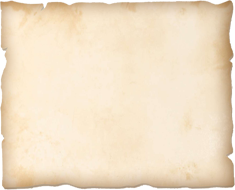
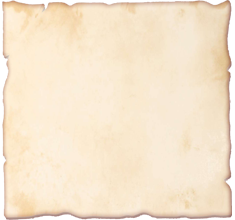
Update design for recipes list

Changed region(s): [[0.0, 0.0, 1.0, 1.0]]

diff --git a/src/app/components/recipes/recipe-list/recipe-list.html b/src/app/components/recipes/recipe-list/recipe-list.html
@@ -5,31 +5,34 @@
     <!-- Recipe Cards Grid -->
     <div class="recipes-grid">
         @for (recipe of recipes$ | async; track recipe.id) {
-            <div class="card">
+            <div class="card tile">
                 <a [routerLink]="['/recipes', recipe.id]" class="recipe-card-link">
                     <div class="card-body">
-                        <h5 class="card-title text-center">{{ recipe.name | titlecase }}</h5>
+                        <p class="card-title text-center font-lydian">{{ recipe.name | titlecase }}</p>
 
-                        <div class="d-flex justify-content-center mb-3">
+                        <div class="d-flex justify-content-center">
                             @if (recipe.vegetarian) {
-                                <img src="assets/recipe_vege.png" alt="Plat végétarien" width="120"/>
+                                <img src="assets/recipe_vege.png" alt="Plat végétarien" width="110" height="90"/>
                             } @else {
-                                <img src="assets/recipe_meat.png" alt="Plat non végétarien" width="120"/>
+                                <img src="assets/recipe_meat.png" alt="Plat non végétarien" width="110" height="90"/>
                             }
                         </div>
 
                         <div class="d-flex justify-content-between">
-                            <div class="info-left">
-                                <div class="category">{{ getCategoryLabel(recipe.category) }}
-                                    @if (recipe.vegetarian) {
-                                        <span class="m-1 badge rounded-pill bg-green-light">V</span>
-                                    }
+                            <div class="info-left d-flex gap-1">
+                                <div class="d-flex flex-column">
+                                    <div class="category">{{ getCategoryLabel(recipe.category) }}</div>
+                                    <div class="servings">{{ recipe.servings | i18nPlural: servingMapping }}</div>
                                 </div>
-                                <div class="servings">{{ recipe.servings }} parts</div>
+                                @if (recipe.vegetarian) {
+                                    <div>
+                                        <img width="25" height="22" src="assets/pictos/vege.png" alt="natural-food">
+                                    </div>
+                                }
                             </div>
-                            <div class="seasons-grid season-emojis">
+                            <div class="seasons-grid">
                                 @for (season of getSeasonsToDisplay(recipe.season); track season) {
-                                    <span class="emoji" [class]="season.toLowerCase()">{{ getSeasonEmoji(season) }}</span>
+                                    <img src="assets/pictos/{{ season.toLowerCase() }}.png" [alt]="season" [title]="getSeasonLabel(season)" [width]="27" [height]="22"/>
                                 }
                             </div>
                         </div>

diff --git a/src/app/components/recipes/recipe-list/recipe-list.scss b/src/app/components/recipes/recipe-list/recipe-list.scss
@@ -34,13 +34,14 @@
     border-radius: 0.375rem;
     overflow: hidden;
     background-image: url('/assets/scroll.png');
-    background-size: cover;
     background-repeat: no-repeat;
     border: none;
 
 }
 
 .card-title {
+    line-height: normal;
+    font-size: x-large;
     height: 50px;;
     font-weight: 600;
     color: var(--brown);
@@ -51,32 +52,21 @@
     color: inherit;
 }
 
-.info-left .servings {
-    font-size: 0.85rem;
-    color: #6c757d;
+.info-left {
+    font-size: smaller;
+    color: var(--brown);
+    .servings {
+        color: #6c757d;
+    }
 }
 
 .seasons-grid {
     display: grid;
-    grid-template-columns: repeat(2, 15px);
-    gap: 0.4rem;
+    grid-template-columns: repeat(2, 1fr);
+    grid-template-rows: repeat(2, 1fr);
+    grid-column-gap: 0px;
+    grid-row-gap: 0px;
 }
-
-.season-emojis .emoji {
-        display: inline-flex;
-        justify-content: center;
-        align-self: center;
-        width: 18px;
-        height: 18px;
-        border-radius: 4px;
-        color: #fff;
-        font-size: 12px;
-}
-
-.season-emojis .spring { background:#7cb342 }
-.season-emojis .summer { background:#fbc02d }
-.season-emojis .autumn { background:#e67e22 }
-.season-emojis .winter { background:#2aa8d8 }
 
 // Header
 h2 {
@@ -94,4 +84,9 @@ h2 {
         background-color: #1f3114;
         border-color: var(--border-line);
     }
+}
+
+.tile {
+    width: 235px;
+    height: 220px;
 }

diff --git a/src/app/components/recipes/recipe-list/recipe-list.ts b/src/app/components/recipes/recipe-list/recipe-list.ts
@@ -20,14 +20,6 @@ export class RecipeList {
 
     public recipes$!: Observable<RecipeDto[]>;
 
-    private readonly seasonEmojiMap: Record<RecipeSeason, string> = {
-        [RecipeSeason.SPRING]: '✿',
-        [RecipeSeason.SUMMER]: '☼',
-        [RecipeSeason.AUTUMN]: '🍂',
-        [RecipeSeason.WINTER]: '❄',
-        [RecipeSeason.ALL_YEAR]: '🌍',
-    };
-
     private readonly allSeasons: RecipeSeason[] = [
         RecipeSeason.SPRING,
         RecipeSeason.SUMMER,
@@ -44,9 +36,6 @@ export class RecipeList {
         );
     }
 
-    public getSeasonEmoji(season: RecipeSeason): string {
-        return this.seasonEmojiMap[season] || '?';
-    }
 
     public getSeasonsToDisplay(seasons: RecipeSeason[]): RecipeSeason[] {
         return seasons.includes(RecipeSeason.ALL_YEAR) ? this.allSeasons : seasons;
@@ -58,6 +47,12 @@ export class RecipeList {
 
     public getCategoryLabel(category: string): string {
         return recipeCategoryTranslations[category as RecipeCategory] || category;
+    }
+
+    public servingMapping: {[k: string]: string} = {
+        '=0': 'Aucune part.',
+        '=1': '1 part.',
+        'other': '# parts.'
     }
 
 }

diff --git a/src/styles.scss b/src/styles.scss
@@ -23,7 +23,7 @@ h2, .page-title {
     font-family: 'Cinzel', serif;
 }
 
-h3, h4, h5, .secondary-title, .recipe-card-header h6 {
+h3, h4, h5, .secondary-title, .recipe-card-header h6, .font-lydian {
     font-family: 'Lydian', serif;
 }
 

diff --git a/src/environments/environment.dev.ts b/src/environments/environment.dev.ts
@@ -1,0 +1,4 @@
+export const environment = {
+    production: false,
+    apiUrl: '/api',
+};

diff --git a/src/environments/environment.prod.ts b/src/environments/environment.prod.ts
@@ -1,0 +1,4 @@
+export const environment = {
+    production: true,
+    apiUrl: '/api',
+};
